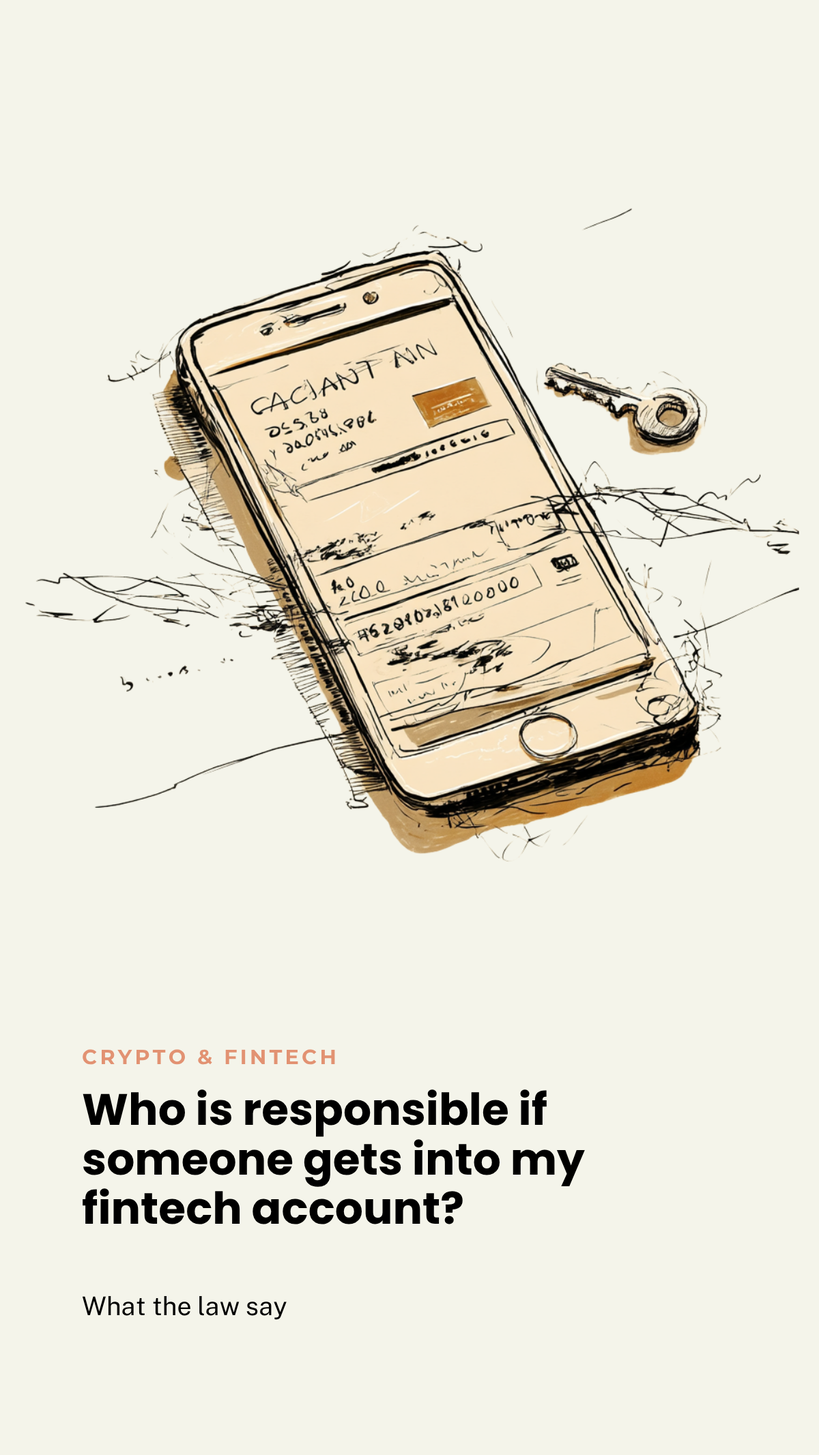
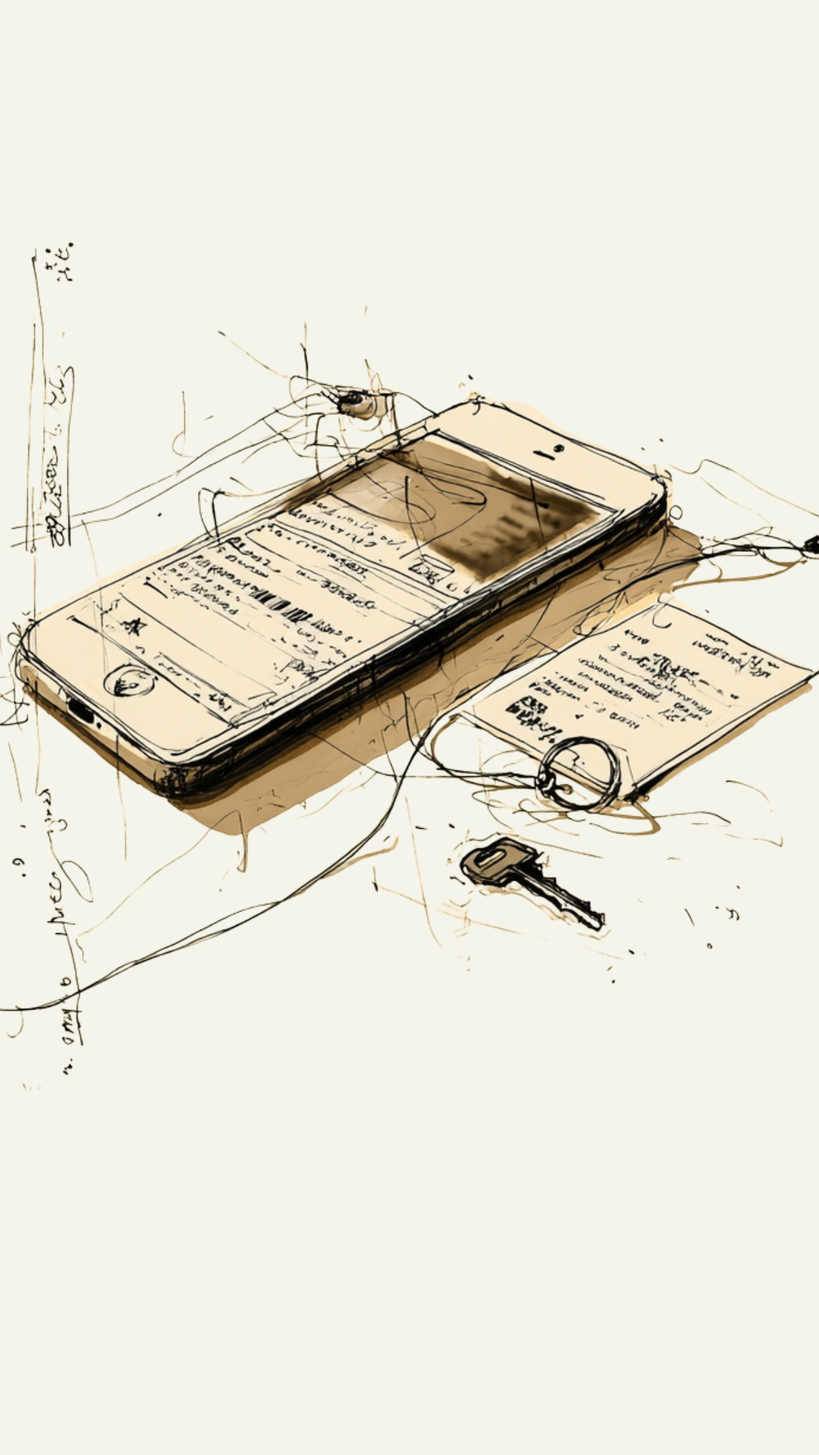
Crypto & Fintech questions: title-free card images, hero images, real card text
Same treatment as the Flights & Travel and Employment batches, now for
Crypto & Fintech (5 articles), including the pillar page.

1. Replace the 5 small card images in images/questions/crypto-fintech/
   with new title-free versions — same filenames, same 1200x2133 dims.

2. Add a dedicated 1600x900 hero image to each of the 5 Crypto &
   Fintech question articles via the established .q-hero-image class
   (visible at all breakpoints, unlike the sitewide .hero-image which
   is display:none on mobile).

3. Fix /questions/ index cards (both "all" and "crypto-fintech" tab
   panels): title and category are now real HTML text
   (<h3 class="q-card-title">, <span class="q-card-category">) below
   each image, reusing the .q-card component from the Flights & Travel
   batch — no new CSS needed.

4. Fix the Crypto & Fintech pillar page (crypto-fintech.html):
   regenerated all 15 webp variants (full/320w/410w x 5 slugs) from the
   new title-free PNGs, since this page's cards use a <picture>/webp
   source that questions.html's cards don't. Applied the same
   .q-card/.q-card-category/.q-card-title structure so title/category
   render as real text here too.

diff --git a/questions.html b/questions.html
@@ -391,20 +391,40 @@
           <span class="q-card-category">Employment</span>
           <h3 class="q-card-title">Can my boss read messages sent through my work phone?</h3>
         </a>
-        <a class="q-img-card" href="/questions/crypto-fintech/can-fintech-close-account-without-explaining">
-          <img src="/images/questions/crypto-fintech/can-fintech-close-account-without-explaining.png" alt="Can a fintech company close my account without explaining why?" loading="lazy" width="1200" height="2133">
+        <a class="q-card" href="/questions/crypto-fintech/can-fintech-close-account-without-explaining">
+          <div class="q-img-card">
+            <img src="/images/questions/crypto-fintech/can-fintech-close-account-without-explaining.png" alt="Can a fintech company close my account without explaining why?" loading="lazy" width="1200" height="2133">
+          </div>
+          <span class="q-card-category">Crypto &amp; Fintech</span>
+          <h3 class="q-card-title">Can a fintech company close my account without explaining why?</h3>
         </a>
-        <a class="q-img-card" href="/questions/crypto-fintech/can-i-get-money-back-crypto-wrong-address">
-          <img src="/images/questions/crypto-fintech/can-i-get-money-back-crypto-wrong-address.png" alt="Can I get my money back if I sent crypto to the wrong address?" loading="lazy" width="1200" height="2133">
+        <a class="q-card" href="/questions/crypto-fintech/can-i-get-money-back-crypto-wrong-address">
+          <div class="q-img-card">
+            <img src="/images/questions/crypto-fintech/can-i-get-money-back-crypto-wrong-address.png" alt="Can I get my money back if I sent crypto to the wrong address?" loading="lazy" width="1200" height="2133">
+          </div>
+          <span class="q-card-category">Crypto &amp; Fintech</span>
+          <h3 class="q-card-title">Can I get my money back if I sent crypto to the wrong address?</h3>
         </a>
-        <a class="q-img-card" href="/questions/crypto-fintech/who-is-responsible-fintech-account-hacked">
-          <img src="/images/questions/crypto-fintech/who-is-responsible-fintech-account-hacked.png" alt="Who is responsible if someone gets into my fintech account?" loading="lazy" width="1200" height="2133">
+        <a class="q-card" href="/questions/crypto-fintech/who-is-responsible-fintech-account-hacked">
+          <div class="q-img-card">
+            <img src="/images/questions/crypto-fintech/who-is-responsible-fintech-account-hacked.png" alt="Who is responsible if someone gets into my fintech account?" loading="lazy" width="1200" height="2133">
+          </div>
+          <span class="q-card-category">Crypto &amp; Fintech</span>
+          <h3 class="q-card-title">Who is responsible if someone gets into my fintech account?</h3>
         </a>
-        <a class="q-img-card" href="/questions/crypto-fintech/what-happens-money-fintech-company-bankrupt">
-          <img src="/images/questions/crypto-fintech/what-happens-money-fintech-company-bankrupt.png" alt="What happens to my money if a fintech company goes bankrupt?" loading="lazy" width="1200" height="2133">
+        <a class="q-card" href="/questions/crypto-fintech/what-happens-money-fintech-company-bankrupt">
+          <div class="q-img-card">
+            <img src="/images/questions/crypto-fintech/what-happens-money-fintech-company-bankrupt.png" alt="What happens to my money if a fintech company goes bankrupt?" loading="lazy" width="1200" height="2133">
+          </div>
+          <span class="q-card-category">Crypto &amp; Fintech</span>
+          <h3 class="q-card-title">What happens to my money if a fintech company goes bankrupt?</h3>
         </a>
-        <a class="q-img-card" href="/questions/crypto-fintech/can-crypto-app-freeze-my-money-without-warning">
-          <img src="/images/questions/crypto-fintech/can-crypto-app-freeze-my-money-without-warning.png" alt="Can a crypto app freeze my money without warning?" loading="lazy" width="1200" height="2133">
+        <a class="q-card" href="/questions/crypto-fintech/can-crypto-app-freeze-my-money-without-warning">
+          <div class="q-img-card">
+            <img src="/images/questions/crypto-fintech/can-crypto-app-freeze-my-money-without-warning.png" alt="Can a crypto app freeze my money without warning?" loading="lazy" width="1200" height="2133">
+          </div>
+          <span class="q-card-category">Crypto &amp; Fintech</span>
+          <h3 class="q-card-title">Can a crypto app freeze my money without warning?</h3>
         </a>
         <a class="q-img-card" href="/questions/food-hospitality/can-restaurant-add-service-charge-without-telling-me">
           <img src="/images/questions/food-hospitality/can-restaurant-add-service-charge-without-telling-me.png" alt="Can a restaurant add a service charge without telling me?" loading="lazy" width="1200" height="2133">
@@ -581,20 +601,40 @@
 
     <div class="qh-tool-panel" data-toolpanel="crypto-fintech">
       <div class="q-card-grid">
-        <a class="q-img-card" href="/questions/crypto-fintech/can-fintech-close-account-without-explaining">
-          <img src="/images/questions/crypto-fintech/can-fintech-close-account-without-explaining.png" alt="Can a fintech company close my account without explaining why?" loading="lazy" width="1200" height="2133">
+        <a class="q-card" href="/questions/crypto-fintech/can-fintech-close-account-without-explaining">
+          <div class="q-img-card">
+            <img src="/images/questions/crypto-fintech/can-fintech-close-account-without-explaining.png" alt="Can a fintech company close my account without explaining why?" loading="lazy" width="1200" height="2133">
+          </div>
+          <span class="q-card-category">Crypto &amp; Fintech</span>
+          <h3 class="q-card-title">Can a fintech company close my account without explaining why?</h3>
         </a>
-        <a class="q-img-card" href="/questions/crypto-fintech/can-i-get-money-back-crypto-wrong-address">
-          <img src="/images/questions/crypto-fintech/can-i-get-money-back-crypto-wrong-address.png" alt="Can I get my money back if I sent crypto to the wrong address?" loading="lazy" width="1200" height="2133">
+        <a class="q-card" href="/questions/crypto-fintech/can-i-get-money-back-crypto-wrong-address">
+          <div class="q-img-card">
+            <img src="/images/questions/crypto-fintech/can-i-get-money-back-crypto-wrong-address.png" alt="Can I get my money back if I sent crypto to the wrong address?" loading="lazy" width="1200" height="2133">
+          </div>
+          <span class="q-card-category">Crypto &amp; Fintech</span>
+          <h3 class="q-card-title">Can I get my money back if I sent crypto to the wrong address?</h3>
         </a>
-        <a class="q-img-card" href="/questions/crypto-fintech/who-is-responsible-fintech-account-hacked">
-          <img src="/images/questions/crypto-fintech/who-is-responsible-fintech-account-hacked.png" alt="Who is responsible if someone gets into my fintech account?" loading="lazy" width="1200" height="2133">
+        <a class="q-card" href="/questions/crypto-fintech/who-is-responsible-fintech-account-hacked">
+          <div class="q-img-card">
+            <img src="/images/questions/crypto-fintech/who-is-responsible-fintech-account-hacked.png" alt="Who is responsible if someone gets into my fintech account?" loading="lazy" width="1200" height="2133">
+          </div>
+          <span class="q-card-category">Crypto &amp; Fintech</span>
+          <h3 class="q-card-title">Who is responsible if someone gets into my fintech account?</h3>
         </a>
-        <a class="q-img-card" href="/questions/crypto-fintech/what-happens-money-fintech-company-bankrupt">
-          <img src="/images/questions/crypto-fintech/what-happens-money-fintech-company-bankrupt.png" alt="What happens to my money if a fintech company goes bankrupt?" loading="lazy" width="1200" height="2133">
+        <a class="q-card" href="/questions/crypto-fintech/what-happens-money-fintech-company-bankrupt">
+          <div class="q-img-card">
+            <img src="/images/questions/crypto-fintech/what-happens-money-fintech-company-bankrupt.png" alt="What happens to my money if a fintech company goes bankrupt?" loading="lazy" width="1200" height="2133">
+          </div>
+          <span class="q-card-category">Crypto &amp; Fintech</span>
+          <h3 class="q-card-title">What happens to my money if a fintech company goes bankrupt?</h3>
         </a>
-        <a class="q-img-card" href="/questions/crypto-fintech/can-crypto-app-freeze-my-money-without-warning">
-          <img src="/images/questions/crypto-fintech/can-crypto-app-freeze-my-money-without-warning.png" alt="Can a crypto app freeze my money without warning?" loading="lazy" width="1200" height="2133">
+        <a class="q-card" href="/questions/crypto-fintech/can-crypto-app-freeze-my-money-without-warning">
+          <div class="q-img-card">
+            <img src="/images/questions/crypto-fintech/can-crypto-app-freeze-my-money-without-warning.png" alt="Can a crypto app freeze my money without warning?" loading="lazy" width="1200" height="2133">
+          </div>
+          <span class="q-card-category">Crypto &amp; Fintech</span>
+          <h3 class="q-card-title">Can a crypto app freeze my money without warning?</h3>
         </a>
       </div>
     </div>

diff --git a/crypto-fintech.html b/crypto-fintech.html
@@ -462,28 +462,49 @@
        zero DOM nodes for them. Not a "Coming soon" message — nothing at all. -->
   <div id="chFutureSections"></div>
 
-  <!-- QUESTIONS — image-only cards, same .q-card-grid/.q-img-card component as
-       questions.html and the Flights & Travel pillar page. Static (not JS-rendered
+  <!-- QUESTIONS — image + category + title cards, same .q-card-grid/.q-card
+       component as questions.html and the other pillar pages (title/category
+       are real HTML text, never baked into the image). Static (not JS-rendered
        like Calculators/Cases/Investigations above) since this section, unlike
        those, isn't meant to silently disappear if empty. -->
   <section aria-labelledby="ch-questions-h2" style="margin-top: 56px;">
     <h2 id="ch-questions-h2" class="cl-hub-cat">Questions</h2>
     <p class="cl-hub-cat-sub">Real questions about crypto exchanges, fintech accounts and where your money actually sits — answered with the exact US and UK law that applies. <a href="/questions">See all Questions →</a></p>
     <div class="q-card-grid">
-      <a class="q-img-card" href="/questions/crypto-fintech/can-fintech-close-account-without-explaining">
-        <picture><source srcset="/images/questions/crypto-fintech/can-fintech-close-account-without-explaining-320w.webp 320w, /images/questions/crypto-fintech/can-fintech-close-account-without-explaining-410w.webp 410w, /images/questions/crypto-fintech/can-fintech-close-account-without-explaining.webp 540w" sizes="(min-width: 960px) 265px, (min-width: 640px) 205px, 160px" type="image/webp"><img src="/images/questions/crypto-fintech/can-fintech-close-account-without-explaining.png" alt="Can a fintech company close my account without explaining why?" loading="lazy" width="1200" height="2133"></picture>
+      <a class="q-card" href="/questions/crypto-fintech/can-fintech-close-account-without-explaining">
+        <div class="q-img-card">
+          <picture><source srcset="/images/questions/crypto-fintech/can-fintech-close-account-without-explaining-320w.webp 320w, /images/questions/crypto-fintech/can-fintech-close-account-without-explaining-410w.webp 410w, /images/questions/crypto-fintech/can-fintech-close-account-without-explaining.webp 540w" sizes="(min-width: 960px) 265px, (min-width: 640px) 205px, 160px" type="image/webp"><img src="/images/questions/crypto-fintech/can-fintech-close-account-without-explaining.png" alt="Can a fintech company close my account without explaining why?" loading="lazy" width="1200" height="2133"></picture>
+        </div>
+        <span class="q-card-category">Crypto &amp; Fintech</span>
+        <h3 class="q-card-title">Can a fintech company close my account without explaining why?</h3>
       </a>
-      <a class="q-img-card" href="/questions/crypto-fintech/can-i-get-money-back-crypto-wrong-address">
-        <picture><source srcset="/images/questions/crypto-fintech/can-i-get-money-back-crypto-wrong-address-320w.webp 320w, /images/questions/crypto-fintech/can-i-get-money-back-crypto-wrong-address-410w.webp 410w, /images/questions/crypto-fintech/can-i-get-money-back-crypto-wrong-address.webp 540w" sizes="(min-width: 960px) 265px, (min-width: 640px) 205px, 160px" type="image/webp"><img src="/images/questions/crypto-fintech/can-i-get-money-back-crypto-wrong-address.png" alt="Can I get my money back if I sent crypto to the wrong address?" loading="lazy" width="1200" height="2133"></picture>
+      <a class="q-card" href="/questions/crypto-fintech/can-i-get-money-back-crypto-wrong-address">
+        <div class="q-img-card">
+          <picture><source srcset="/images/questions/crypto-fintech/can-i-get-money-back-crypto-wrong-address-320w.webp 320w, /images/questions/crypto-fintech/can-i-get-money-back-crypto-wrong-address-410w.webp 410w, /images/questions/crypto-fintech/can-i-get-money-back-crypto-wrong-address.webp 540w" sizes="(min-width: 960px) 265px, (min-width: 640px) 205px, 160px" type="image/webp"><img src="/images/questions/crypto-fintech/can-i-get-money-back-crypto-wrong-address.png" alt="Can I get my money back if I sent crypto to the wrong address?" loading="lazy" width="1200" height="2133"></picture>
+        </div>
+        <span class="q-card-category">Crypto &amp; Fintech</span>
+        <h3 class="q-card-title">Can I get my money back if I sent crypto to the wrong address?</h3>
       </a>
-      <a class="q-img-card" href="/questions/crypto-fintech/who-is-responsible-fintech-account-hacked">
-        <picture><source srcset="/images/questions/crypto-fintech/who-is-responsible-fintech-account-hacked-320w.webp 320w, /images/questions/crypto-fintech/who-is-responsible-fintech-account-hacked-410w.webp 410w, /images/questions/crypto-fintech/who-is-responsible-fintech-account-hacked.webp 540w" sizes="(min-width: 960px) 265px, (min-width: 640px) 205px, 160px" type="image/webp"><img src="/images/questions/crypto-fintech/who-is-responsible-fintech-account-hacked.png" alt="Who is responsible if someone gets into my fintech account?" loading="lazy" width="1200" height="2133"></picture>
+      <a class="q-card" href="/questions/crypto-fintech/who-is-responsible-fintech-account-hacked">
+        <div class="q-img-card">
+          <picture><source srcset="/images/questions/crypto-fintech/who-is-responsible-fintech-account-hacked-320w.webp 320w, /images/questions/crypto-fintech/who-is-responsible-fintech-account-hacked-410w.webp 410w, /images/questions/crypto-fintech/who-is-responsible-fintech-account-hacked.webp 540w" sizes="(min-width: 960px) 265px, (min-width: 640px) 205px, 160px" type="image/webp"><img src="/images/questions/crypto-fintech/who-is-responsible-fintech-account-hacked.png" alt="Who is responsible if someone gets into my fintech account?" loading="lazy" width="1200" height="2133"></picture>
+        </div>
+        <span class="q-card-category">Crypto &amp; Fintech</span>
+        <h3 class="q-card-title">Who is responsible if someone gets into my fintech account?</h3>
       </a>
-      <a class="q-img-card" href="/questions/crypto-fintech/what-happens-money-fintech-company-bankrupt">
-        <picture><source srcset="/images/questions/crypto-fintech/what-happens-money-fintech-company-bankrupt-320w.webp 320w, /images/questions/crypto-fintech/what-happens-money-fintech-company-bankrupt-410w.webp 410w, /images/questions/crypto-fintech/what-happens-money-fintech-company-bankrupt.webp 540w" sizes="(min-width: 960px) 265px, (min-width: 640px) 205px, 160px" type="image/webp"><img src="/images/questions/crypto-fintech/what-happens-money-fintech-company-bankrupt.png" alt="What happens to my money if a fintech company goes bankrupt?" loading="lazy" width="1200" height="2133"></picture>
+      <a class="q-card" href="/questions/crypto-fintech/what-happens-money-fintech-company-bankrupt">
+        <div class="q-img-card">
+          <picture><source srcset="/images/questions/crypto-fintech/what-happens-money-fintech-company-bankrupt-320w.webp 320w, /images/questions/crypto-fintech/what-happens-money-fintech-company-bankrupt-410w.webp 410w, /images/questions/crypto-fintech/what-happens-money-fintech-company-bankrupt.webp 540w" sizes="(min-width: 960px) 265px, (min-width: 640px) 205px, 160px" type="image/webp"><img src="/images/questions/crypto-fintech/what-happens-money-fintech-company-bankrupt.png" alt="What happens to my money if a fintech company goes bankrupt?" loading="lazy" width="1200" height="2133"></picture>
+        </div>
+        <span class="q-card-category">Crypto &amp; Fintech</span>
+        <h3 class="q-card-title">What happens to my money if a fintech company goes bankrupt?</h3>
       </a>
-      <a class="q-img-card" href="/questions/crypto-fintech/can-crypto-app-freeze-my-money-without-warning">
-        <picture><source srcset="/images/questions/crypto-fintech/can-crypto-app-freeze-my-money-without-warning-320w.webp 320w, /images/questions/crypto-fintech/can-crypto-app-freeze-my-money-without-warning-410w.webp 410w, /images/questions/crypto-fintech/can-crypto-app-freeze-my-money-without-warning.webp 540w" sizes="(min-width: 960px) 265px, (min-width: 640px) 205px, 160px" type="image/webp"><img src="/images/questions/crypto-fintech/can-crypto-app-freeze-my-money-without-warning.png" alt="Can a crypto app freeze my money without warning?" loading="lazy" width="1200" height="2133"></picture>
+      <a class="q-card" href="/questions/crypto-fintech/can-crypto-app-freeze-my-money-without-warning">
+        <div class="q-img-card">
+          <picture><source srcset="/images/questions/crypto-fintech/can-crypto-app-freeze-my-money-without-warning-320w.webp 320w, /images/questions/crypto-fintech/can-crypto-app-freeze-my-money-without-warning-410w.webp 410w, /images/questions/crypto-fintech/can-crypto-app-freeze-my-money-without-warning.webp 540w" sizes="(min-width: 960px) 265px, (min-width: 640px) 205px, 160px" type="image/webp"><img src="/images/questions/crypto-fintech/can-crypto-app-freeze-my-money-without-warning.png" alt="Can a crypto app freeze my money without warning?" loading="lazy" width="1200" height="2133"></picture>
+        </div>
+        <span class="q-card-category">Crypto &amp; Fintech</span>
+        <h3 class="q-card-title">Can a crypto app freeze my money without warning?</h3>
       </a>
     </div>
   </section>

diff --git a/questions/crypto-fintech/can-fintech-close-account-without-explaining.html b/questions/crypto-fintech/can-fintech-close-account-without-explaining.html
@@ -102,6 +102,8 @@
   .wrap { max-width: 760px; margin: 0 auto; padding: 0 24px; }
   .q-header { padding: 56px 0 32px; }
   .q-category { display: inline-block; font-size: 13px; font-weight: 700; letter-spacing: 1.2px; text-transform: uppercase; color: var(--accent-terra); margin-bottom: 18px; }
+  /* Visible at ALL breakpoints, unlike the sitewide .hero-image class (display:none on mobile). */
+  .q-hero-image { display: block; width: 100%; max-width: 100%; height: auto; border-radius: 12px; margin: 0 0 24px; }
   .q-header h1 { font-family: var(--font-serif); font-size: 38px; font-weight: 800; line-height: 1.2; margin-bottom: 18px; }
   .q-dek { font-size: 18px; color: var(--text-secondary); max-width: 620px; }
   .q-meta { display: flex; gap: 18px; margin-top: 22px; font-size: 13px; color: var(--text-secondary); }
@@ -339,6 +341,7 @@
 
   <header class="q-header">
     <span class="q-category">Crypto &amp; Fintech · US &amp; UK</span>
+    <img class="q-hero-image" src="/images/questions/crypto-fintech/can-fintech-close-account-without-explaining-hero.png" width="1600" height="900" alt="Can a fintech company close my account without explaining why?" loading="eager" fetchpriority="high">
     <h1>Can a fintech company close my account without explaining why?</h1>
     <p class="q-dek">The letter arrives, the reason doesn't — and until recently, that was almost always allowed on both sides of the Atlantic. One side just changed the rules.</p>
     <div class="q-meta">

diff --git a/questions/crypto-fintech/who-is-responsible-fintech-account-hacked.html b/questions/crypto-fintech/who-is-responsible-fintech-account-hacked.html
@@ -102,6 +102,8 @@
   .wrap { max-width: 760px; margin: 0 auto; padding: 0 24px; }
   .q-header { padding: 56px 0 32px; }
   .q-category { display: inline-block; font-size: 13px; font-weight: 700; letter-spacing: 1.2px; text-transform: uppercase; color: var(--accent-terra); margin-bottom: 18px; }
+  /* Visible at ALL breakpoints, unlike the sitewide .hero-image class (display:none on mobile). */
+  .q-hero-image { display: block; width: 100%; max-width: 100%; height: auto; border-radius: 12px; margin: 0 0 24px; }
   .q-header h1 { font-family: var(--font-serif); font-size: 38px; font-weight: 800; line-height: 1.2; margin-bottom: 18px; }
   .q-dek { font-size: 18px; color: var(--text-secondary); max-width: 620px; }
   .q-meta { display: flex; gap: 18px; margin-top: 22px; font-size: 13px; color: var(--text-secondary); }
@@ -339,6 +341,7 @@
 
   <header class="q-header">
     <span class="q-category">Crypto &amp; Fintech · US &amp; UK</span>
+    <img class="q-hero-image" src="/images/questions/crypto-fintech/who-is-responsible-fintech-account-hacked-hero.png" width="1600" height="900" alt="Who is responsible if someone gets into my fintech account?" loading="eager" fetchpriority="high">
     <h1>Who is responsible if someone gets into my fintech account?</h1>
     <p class="q-dek">The gap between US and UK protection here is enormous — and it hinges on one detail: did someone else move the money, or did they trick you into moving it yourself?</p>
     <div class="q-meta">

diff --git a/questions/crypto-fintech/can-i-get-money-back-crypto-wrong-address.html b/questions/crypto-fintech/can-i-get-money-back-crypto-wrong-address.html
@@ -102,6 +102,8 @@
   .wrap { max-width: 760px; margin: 0 auto; padding: 0 24px; }
   .q-header { padding: 56px 0 32px; }
   .q-category { display: inline-block; font-size: 13px; font-weight: 700; letter-spacing: 1.2px; text-transform: uppercase; color: var(--accent-terra); margin-bottom: 18px; }
+  /* Visible at ALL breakpoints, unlike the sitewide .hero-image class (display:none on mobile). */
+  .q-hero-image { display: block; width: 100%; max-width: 100%; height: auto; border-radius: 12px; margin: 0 0 24px; }
   .q-header h1 { font-family: var(--font-serif); font-size: 38px; font-weight: 800; line-height: 1.2; margin-bottom: 18px; }
   .q-dek { font-size: 18px; color: var(--text-secondary); max-width: 620px; }
   .q-meta { display: flex; gap: 18px; margin-top: 22px; font-size: 13px; color: var(--text-secondary); }
@@ -339,6 +341,7 @@
 
   <header class="q-header">
     <span class="q-category">Crypto &amp; Fintech · US &amp; UK</span>
+    <img class="q-hero-image" src="/images/questions/crypto-fintech/can-i-get-money-back-crypto-wrong-address-hero.png" width="1600" height="900" alt="Can I get my money back if I sent crypto to the wrong address?" loading="eager" fetchpriority="high">
     <h1>Can I get my money back if I sent crypto to the wrong address?</h1>
     <p class="q-dek">There's no bank to call and reverse the transfer — but "wrong address" isn't one problem, it's at least three, and only some of them are actually fatal.</p>
     <div class="q-meta">

diff --git a/questions/crypto-fintech/what-happens-money-fintech-company-bankrupt.html b/questions/crypto-fintech/what-happens-money-fintech-company-bankrupt.html
@@ -102,6 +102,8 @@
   .wrap { max-width: 760px; margin: 0 auto; padding: 0 24px; }
   .q-header { padding: 56px 0 32px; }
   .q-category { display: inline-block; font-size: 13px; font-weight: 700; letter-spacing: 1.2px; text-transform: uppercase; color: var(--accent-terra); margin-bottom: 18px; }
+  /* Visible at ALL breakpoints, unlike the sitewide .hero-image class (display:none on mobile). */
+  .q-hero-image { display: block; width: 100%; max-width: 100%; height: auto; border-radius: 12px; margin: 0 0 24px; }
   .q-header h1 { font-family: var(--font-serif); font-size: 38px; font-weight: 800; line-height: 1.2; margin-bottom: 18px; }
   .q-dek { font-size: 18px; color: var(--text-secondary); max-width: 620px; }
   .q-meta { display: flex; gap: 18px; margin-top: 22px; font-size: 13px; color: var(--text-secondary); }
@@ -339,6 +341,7 @@
 
   <header class="q-header">
     <span class="q-category">Crypto &amp; Fintech · US &amp; UK</span>
+    <img class="q-hero-image" src="/images/questions/crypto-fintech/what-happens-money-fintech-company-bankrupt-hero.png" width="1600" height="900" alt="What happens to my money if a fintech company goes bankrupt?" loading="eager" fetchpriority="high">
     <h1>What happens to my money if a fintech company goes bankrupt?</h1>
     <p class="q-dek">"FDIC-insured" felt like a guarantee — until it wasn't, for over 100,000 real customers, because the insurance was never actually the weak point.</p>
     <div class="q-meta">

diff --git a/questions/crypto-fintech/can-crypto-app-freeze-my-money-without-warning.html b/questions/crypto-fintech/can-crypto-app-freeze-my-money-without-warning.html
@@ -102,6 +102,8 @@
   .wrap { max-width: 760px; margin: 0 auto; padding: 0 24px; }
   .q-header { padding: 56px 0 32px; }
   .q-category { display: inline-block; font-size: 13px; font-weight: 700; letter-spacing: 1.2px; text-transform: uppercase; color: var(--accent-terra); margin-bottom: 18px; }
+  /* Visible at ALL breakpoints, unlike the sitewide .hero-image class (display:none on mobile). */
+  .q-hero-image { display: block; width: 100%; max-width: 100%; height: auto; border-radius: 12px; margin: 0 0 24px; }
   .q-header h1 { font-family: var(--font-serif); font-size: 38px; font-weight: 800; line-height: 1.2; margin-bottom: 18px; }
   .q-dek { font-size: 18px; color: var(--text-secondary); max-width: 620px; }
   .q-meta { display: flex; gap: 18px; margin-top: 22px; font-size: 13px; color: var(--text-secondary); }
@@ -339,6 +341,7 @@
 
   <header class="q-header">
     <span class="q-category">Crypto &amp; Fintech · US &amp; UK</span>
+    <img class="q-hero-image" src="/images/questions/crypto-fintech/can-crypto-app-freeze-my-money-without-warning-hero.png" width="1600" height="900" alt="Can a crypto app freeze my money without warning?" loading="eager" fetchpriority="high">
     <h1>Can a crypto app freeze my money without warning?</h1>
     <p class="q-dek">"We can't discuss the details of your account" isn't the platform being difficult — it's often the law forcing them into silence.</p>
     <div class="q-meta">
